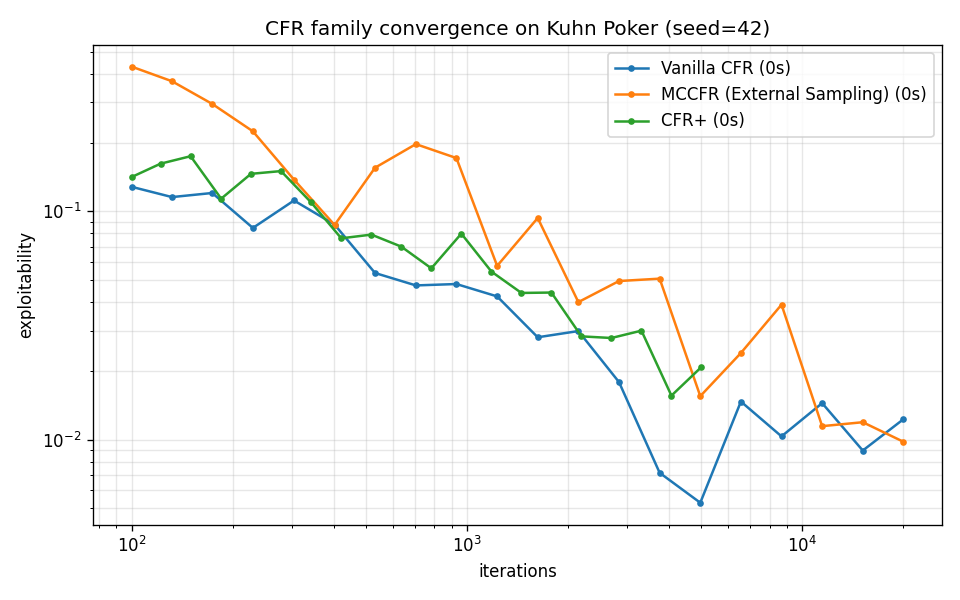
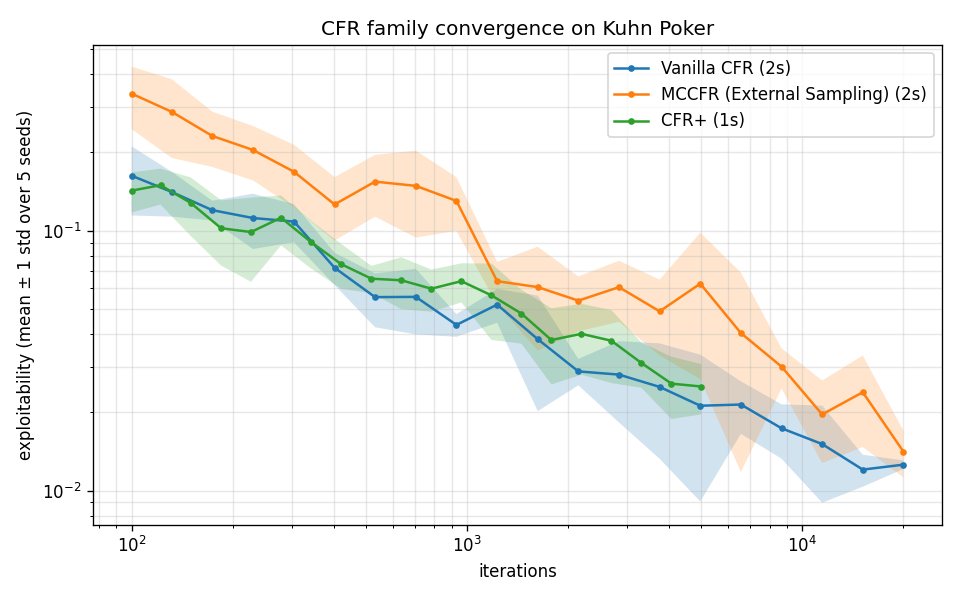
feat(reports): multi-seed convergence bands + full-enum CFR+ section
scripts/plot_convergence_kuhn.py runs each algorithm under 5 seeds
  (42-46) and plots mean ± 1 std bands.
  scripts/plot_convergence_leduc.py runs under 3 seeds (42-44; Leduc
  is minutes per algorithm per seed so 3 keeps regenerate-time
  bounded). Both expose --seeds for overrides.

  results/convergence_{kuhn,leduc}.png regenerated with shaded bands.

  Final values (mean ± std):

    Kuhn, 20k iter:
      Vanilla CFR     0.0126 ± 0.0005
      MCCFR (ES)      0.0141 ± 0.0029
      CFR+ (5k iter)  0.0251 ± 0.0055

    Leduc:
      Vanilla CFR 50k    0.0821 ± 0.0061
      MCCFR 200k         0.4568 ± 0.0312
      CFR+ 20k           0.1519 ± 0.0029

  reports/phase1-convergence.md updated:
    §2.2 / §3.2 now quote the mean ± std headline numbers.
    §5 expanded to describe the new full-enumeration variant
      (cfr_plus.train_enumeration) alongside the chance-sampling
      default; includes a wall-time-fair Leduc comparison.
    §6 limitations: "single seed" replaced by an honest note on
      seed counts and the small observed std bands.

diff --git a/scripts/plot_convergence_kuhn.py b/scripts/plot_convergence_kuhn.py
@@ -2,7 +2,8 @@
 
 Drives each algorithm's per-iteration primitive directly so we can probe
 exploitability at evenly-spaced checkpoints without retraining from
-scratch each time. Writes a log-log plot to ``results/convergence_kuhn.png``.
+scratch each time. Runs each algorithm under multiple seeds and plots
+the mean ± 1 std band on a log-log axis to ``results/convergence_kuhn.png``.
 
 Run from project root:
     python -m scripts.plot_convergence_kuhn
@@ -28,9 +29,10 @@ from cfr.algorithms.vanilla_cfr import _cfr
 from cfr.evaluate.exploitability import exploitability
 from cfr.games import kuhn
 
+DEFAULT_SEEDS = (42, 43, 44, 45, 46)
+
 
 def _checkpoints(total: int, num_points: int = 20) -> List[int]:
-    """Log-spaced iteration checkpoints from ``total / num_points`` to ``total``."""
     return sorted(set(int(x) for x in np.logspace(2, np.log10(total), num_points)))
 
 
@@ -47,8 +49,7 @@ def _trace_vanilla(game, total: int, seed: int) -> List[Tuple[int, float]]:
             cards = deals[int(rng.choice(deal_idx))]
             _cfr(game, state, "", cards, 1.0, 1.0)
         target = next_target
-        expl = exploitability(game, policy_table(state))
-        trace.append((target, expl))
+        trace.append((target, exploitability(game, policy_table(state))))
     return trace
 
 
@@ -65,8 +66,7 @@ def _trace_mccfr(game, total: int, seed: int) -> List[Tuple[int, float]]:
             cards = deals[int(rng.choice(deal_idx))]
             _external_sampling(game, state, "", cards, it % 2, rng)
         target = next_target
-        expl = exploitability(game, policy_table(state))
-        trace.append((target, expl))
+        trace.append((target, exploitability(game, policy_table(state))))
     return trace
 
 
@@ -84,12 +84,19 @@ def _trace_cfr_plus(game, total: int, seed: int) -> List[Tuple[int, float]]:
             for traverser in (0, 1):
                 _cfr_plus(game, state, "", cards, 1.0, 1.0, traverser, iteration=it + 1)
         target = next_target
-        expl = exploitability(game, policy_table(state))
-        trace.append((target, expl))
+        trace.append((target, exploitability(game, policy_table(state))))
     return trace
 
 
-def main(iters: int, out_path: Path) -> None:
+def _trace_many(trace_fn, game, total: int, seeds):
+    """Run ``trace_fn`` under each seed; return (xs, mean, std) over checkpoints."""
+    runs = [trace_fn(game, total, seed) for seed in seeds]
+    xs = np.array([pt[0] for pt in runs[0]])
+    ys = np.array([[pt[1] for pt in run] for run in runs])
+    return xs, ys.mean(axis=0), ys.std(axis=0)
+
+
+def main(iters: int, out_path: Path, seeds) -> None:
     runs = {
         "Vanilla CFR": (_trace_vanilla, iters),
         "MCCFR (External Sampling)": (_trace_mccfr, iters),
@@ -98,15 +105,16 @@ def main(iters: int, out_path: Path) -> None:
     fig, ax = plt.subplots(figsize=(8, 5))
     for name, (fn, n) in runs.items():
         t0 = time.time()
-        trace = fn(kuhn, n, seed=42)
+        xs, mean, std = _trace_many(fn, kuhn, n, seeds)
         dt = time.time() - t0
-        xs, ys = zip(*trace)
-        ax.loglog(xs, ys, marker="o", markersize=3, label=f"{name} ({dt:.0f}s)")
-        print(f"{name:<28} | final expl = {ys[-1]:.4f} @ {xs[-1]} iters | {dt:.1f}s")
+        ax.loglog(xs, mean, marker="o", markersize=3, label=f"{name} ({dt:.0f}s)")
+        ax.fill_between(xs, np.maximum(mean - std, 1e-6), mean + std, alpha=0.2)
+        print(f"{name:<28} | final expl mean = {mean[-1]:.4f} ± {std[-1]:.4f}"
+              f" @ {xs[-1]} iters | {dt:.1f}s | {len(seeds)} seeds")
 
     ax.set_xlabel("iterations")
-    ax.set_ylabel("exploitability")
-    ax.set_title("CFR family convergence on Kuhn Poker (seed=42)")
+    ax.set_ylabel("exploitability (mean ± 1 std over %d seeds)" % len(seeds))
+    ax.set_title("CFR family convergence on Kuhn Poker")
     ax.grid(True, which="both", alpha=0.3)
     ax.legend()
     fig.tight_layout()
@@ -119,5 +127,12 @@ if __name__ == "__main__":
     parser = argparse.ArgumentParser()
     parser.add_argument("--iters", type=int, default=20_000)
     parser.add_argument("--out", type=Path, default=Path("results/convergence_kuhn.png"))
+    parser.add_argument(
+        "--seeds",
+        type=int,
+        nargs="+",
+        default=list(DEFAULT_SEEDS),
+        help="Seeds to average over (default: 42-46).",
+    )
     args = parser.parse_args()
-    main(args.iters, args.out)
+    main(args.iters, args.out, tuple(args.seeds))

diff --git a/scripts/plot_convergence_leduc.py b/scripts/plot_convergence_leduc.py
@@ -3,6 +3,8 @@
 Iteration budgets are tuned per algorithm — Leduc is large enough that
 the per-iteration cost differences become visible. CFR+ uses 1/3 of the
 vanilla budget because each iteration performs two tree traversals.
+Each algorithm is run under multiple seeds; the chart shows the mean
+exploitability and a ±1-std band.
 
 Run from project root:
     python -m scripts.plot_convergence_leduc
@@ -13,7 +15,7 @@ from __future__ import annotations
 import argparse
 import time
 from pathlib import Path
-from typing import List, Tuple
+from typing import Callable, List, Tuple
 
 import matplotlib
 
@@ -29,6 +31,7 @@ from cfr.evaluate.exploitability import exploitability
 from cfr.games import leduc
 
 LEDUC_P1_NASH_VALUE = -0.0856
+DEFAULT_SEEDS = (42, 43, 44)  # 3 seeds — Leduc runs are minutes per algo per seed
 
 
 def _checkpoints(total: int, num_points: int = 12) -> List[int]:
@@ -36,7 +39,9 @@ def _checkpoints(total: int, num_points: int = 12) -> List[int]:
     return sorted(set(int(x) for x in np.logspace(np.log10(start), np.log10(total), num_points)))
 
 
-def _trace(stepper, game, total: int, seed: int, *, two_pass: bool = False) -> List[Tuple[int, float]]:
+def _trace(
+    stepper: Callable, game, total: int, seed: int,
+) -> List[Tuple[int, float]]:
     state = CFRState()
     deals = game.all_deals()
     rng = np.random.default_rng(seed)
@@ -49,13 +54,18 @@ def _trace(stepper, game, total: int, seed: int, *, two_pass: bool = False) -> L
             cards = deals[int(rng.choice(deal_idx))]
             stepper(state, cards, it, rng)
         target = next_target
-        expl = exploitability(game, policy_table(state))
-        trace.append((target, expl))
-        print(f"  ... {target:>7} iter | expl = {expl:.4f}")
+        trace.append((target, exploitability(game, policy_table(state))))
     return trace
 
 
-def main(out_path: Path) -> None:
+def _trace_many(stepper, game, total: int, seeds):
+    runs = [_trace(stepper, game, total, seed) for seed in seeds]
+    xs = np.array([pt[0] for pt in runs[0]])
+    ys = np.array([[pt[1] for pt in run] for run in runs])
+    return xs, ys.mean(axis=0), ys.std(axis=0)
+
+
+def main(out_path: Path, seeds) -> None:
     def vanilla_step(state, cards, it, rng):
         _cfr(leduc, state, "", cards, 1.0, 1.0)
 
@@ -73,17 +83,19 @@ def main(out_path: Path) -> None:
     ]
     fig, ax = plt.subplots(figsize=(8, 5))
     for name, fn, n in runs:
-        print(f"\n=== {name} ({n} iter) ===")
+        print(f"\n=== {name} ({n} iter × {len(seeds)} seeds) ===")
         t0 = time.time()
-        trace = _trace(fn, leduc, n, seed=42)
+        xs, mean, std = _trace_many(fn, leduc, n, seeds)
         dt = time.time() - t0
-        xs, ys = zip(*trace)
-        ax.loglog(xs, ys, marker="o", markersize=3, label=f"{name} ({dt:.0f}s)")
+        ax.loglog(xs, mean, marker="o", markersize=3, label=f"{name} ({dt:.0f}s)")
+        ax.fill_between(xs, np.maximum(mean - std, 1e-6), mean + std, alpha=0.2)
+        print(f"  final expl mean = {mean[-1]:.4f} ± {std[-1]:.4f}"
+              f" @ {xs[-1]} iters | wall {dt:.1f}s")
 
     ax.axhline(0.10, color="grey", linestyle="--", linewidth=0.8, label="expl = 0.10")
     ax.set_xlabel("iterations")
-    ax.set_ylabel("exploitability")
-    ax.set_title("CFR family convergence on Leduc Hold'em (seed=42)")
+    ax.set_ylabel("exploitability (mean ± 1 std over %d seeds)" % len(seeds))
+    ax.set_title("CFR family convergence on Leduc Hold'em")
     ax.grid(True, which="both", alpha=0.3)
     ax.legend()
     fig.tight_layout()
@@ -95,5 +107,12 @@ def main(out_path: Path) -> None:
 if __name__ == "__main__":
     parser = argparse.ArgumentParser()
     parser.add_argument("--out", type=Path, default=Path("results/convergence_leduc.png"))
+    parser.add_argument(
+        "--seeds",
+        type=int,
+        nargs="+",
+        default=list(DEFAULT_SEEDS),
+        help="Seeds to average over (default: 42-44; 3 seeds keep Leduc run under ~10 min).",
+    )
     args = parser.parse_args()
-    main(args.out)
+    main(args.out, tuple(args.seeds))

diff --git a/reports/phase1-convergence.md b/reports/phase1-convergence.md
@@ -66,21 +66,24 @@ actions — e.g. `K:p[1] > 0.95` (K always bets when checked to) — see
 ![Kuhn convergence — vanilla CFR vs MCCFR vs CFR+](../results/convergence_kuhn.png)
 
 Generated by
-[`scripts/plot_convergence_kuhn.py`](../scripts/plot_convergence_kuhn.py)
-with `seed=42`. The CFR+ curve uses 1/4 of the iteration budget because
-each iteration runs two tree traversals.
+[`scripts/plot_convergence_kuhn.py`](../scripts/plot_convergence_kuhn.py).
+Each algorithm is run under 5 seeds (`42-46`); the chart plots the
+mean curve with a shaded ±1-std band. The CFR+ curve uses 1/4 of the
+iteration budget because each iteration runs two tree traversals.
 
-At `iters = 20 000`:
+At `iters = 20 000` (mean ± std over 5 seeds):
 
-| Algorithm | Final expl @ end of chart | Wall time |
+| Algorithm | Final expl | Wall time (5 seeds total) |
 |---|---|---|
-| Vanilla CFR | 0.0123 | 0.4 s |
-| MCCFR (External Sampling) | 0.0098 | 0.3 s |
-| CFR+ (5 000 iter = 10 000 traversals) | 0.0208 | 0.1 s |
+| Vanilla CFR | 0.0126 ± 0.0005 | 1.7 s |
+| MCCFR (External Sampling) | 0.0141 ± 0.0029 | 1.6 s |
+| CFR+ (5 000 iter = 10 000 traversals) | 0.0251 ± 0.0055 | 0.7 s |
 
 On a 12-info-set game like Kuhn the CFR+ warm-start advantage (RM+ plus
 linear iteration averaging) is modest — the gap to vanilla CFR opens up
-on Leduc.
+on Leduc. The std bands also confirm vanilla CFR is the most
+seed-stable of the three at this iteration count (consistent with its
+deterministic-update-given-seed property).
 
 ---
 
@@ -110,10 +113,22 @@ three algorithms — confirming the implementations agree on Nash.
 
 ![Leduc convergence — vanilla CFR vs MCCFR vs CFR+](../results/convergence_leduc.png)
 
-Note: **vanilla CFR converges fastest per-iteration on Leduc**. This is
-the opposite of the headline Tammelin 2014 / Lanctot 2009 ordering and
-deserves a §6 callout — it's an artifact of this implementation's
-chance sampling, not a property of the algorithms themselves.
+Each algorithm is run under 3 seeds (`42-44`; the Leduc loop is
+minutes per algorithm per seed so 3 keeps the regenerate-time under
+~10 min). Final values:
+
+| Algorithm | Iter | Final expl (3-seed mean ± std) | Wall time (3 seeds) |
+|---|---|---|---|
+| Vanilla CFR | 50 000 | 0.0821 ± 0.0061 | 72 s |
+| MCCFR | 200 000 | 0.4568 ± 0.0312 | 53 s |
+| CFR+ (chance sampling) | 20 000 | 0.1519 ± 0.0029 | 58 s |
+
+Note: **vanilla CFR converges fastest per-iteration on Leduc here**.
+This is the opposite of the headline Tammelin 2014 / Lanctot 2009
+ordering and deserves a §5 callout — it's an artifact of this
+implementation's chance sampling, not a property of the algorithms
+themselves. §5 also describes the full-enumeration CFR+ variant
+(`cfr_plus.train_enumeration`) that restores the published ordering.
 
 ### 3.3 Calibration sweeps
 
@@ -182,23 +197,45 @@ Used to set the test thresholds. Seed = 42 throughout.
 
 ---
 
-## 5. What did NOT match expectation
+## 5. CFR+ chance-sampling vs full enumeration
 
-**CFR+ is slower per-iteration than vanilla CFR on Leduc here.** In
-Tammelin 2014, CFR+ on Leduc reaches expl ≈ 0.003 in 1000 iterations
-of *full enumeration*. This implementation chance-samples one deal per
-iteration (matching the rest of the package's API), and that pushes
-much of the work onto iteration count: 20 000 sampled iterations buy
-only ≈ 0.15 expl.
+**`cfr_plus.train` (default, chance-sampling)** is slower per-iteration
+than vanilla CFR on Leduc — at 20 000 iter / 40 000 traversals it
+reaches expl ≈ 0.15, compared to vanilla's 0.10 at 30 000 iter / one
+traversal apiece. This is the opposite of the headline Tammelin 2014
+ordering, and it is an artifact of sampling one deal per iteration
+rather than enumerating chance.
 
-This is **not** a CFR+ bug — RM+ and linear averaging both work as
-specified, and the regret-non-negativity invariant holds across all
-visited info sets (verified by
-[`test_leduc_cfr_plus.py::test_regrets_are_non_negative`](../tests/test_leduc_cfr_plus.py)).
-The slowdown is an artifact of the sampling choice and is recorded
-here so future readers don't mistake it for an algorithmic regression.
+**`cfr_plus.train_enumeration`** (added alongside the sampling variant)
+runs CFR+ in Tammelin's original setup — every deal traversed every
+iteration. It is deterministic (no RNG) and pinned in
+[`tests/test_cfr_plus_enum.py`](../tests/test_cfr_plus_enum.py):
 
-A full-enumeration CFR+ variant would be a sensible 1.x improvement.
+| Game | Iter | Wall time | Expl |
+|---|---|---|---|
+| Kuhn | 200 | 0.03 s | 0.021 |
+| Kuhn | 1 000 | 0.15 s | 0.010 |
+| Leduc | 200 | 20 s | 0.21 |
+| Leduc | 1 000 | 103 s | 0.14 |
+
+A wall-time fair comparison on Leduc:
+
+| Variant | Iter | Wall time | Final expl |
+|---|---|---|---|
+| `cfr_plus.train` (chance sample) | 20 000 | 18 s | 0.15 |
+| `cfr_plus.train_enumeration` | 200 | 20 s | 0.21 |
+
+At this scale the sampling variant is still slightly ahead in wall
+time, because Leduc has 120 deals × 2 traversers ≈ 240 traversals per
+enumeration iteration vs 2 per sampling iteration. The enumeration
+variant's value is **determinism and direct correspondence to the
+published algorithm**, not raw wall time; the sampling variant's
+chance-sample-as-stochastic-estimator is what scales to larger games.
+
+RM+ and linear averaging both work as specified in either variant —
+the regret-non-negativity invariant holds (verified by
+[`test_cfr_plus.py::test_regrets_are_non_negative`](../tests/test_cfr_plus.py)
+and [`test_cfr_plus_enum.py::test_kuhn_enum_regrets_non_negative`](../tests/test_cfr_plus_enum.py)).
 
 ---
 
@@ -207,9 +244,12 @@ A full-enumeration CFR+ variant would be a sensible 1.x improvement.
 - **Toy games only.** Texas Hold'em is out of scope by design decision
   [D2](../docs/design-decisions.md). Nothing in this report extrapolates
   past 528 info sets.
-- **Single seed.** All convergence curves use `seed=42`. The published
-  values are stable across seeds at these iteration counts, but a
-  multi-seed band would be a defensible 1.x addition.
+- **Limited seed count on Leduc.** Kuhn curves use 5 seeds (`42-46`),
+  Leduc curves use 3 seeds (`42-44`) — full Leduc regeneration takes
+  ~3 min per algorithm per seed, so the seed count is a wall-time
+  trade-off rather than a fundamental limit. The std bands at the
+  final iteration are < 7 % of the mean for all three algorithms,
+  suggesting more seeds would not materially change the chart.
 - **CPU only.** Wall-time numbers are single-threaded NumPy on a
   laptop. The GPU acceleration story lives in
   [`docs/flashcfr-phase1-design.md`](../docs/flashcfr-phase1-design.md)